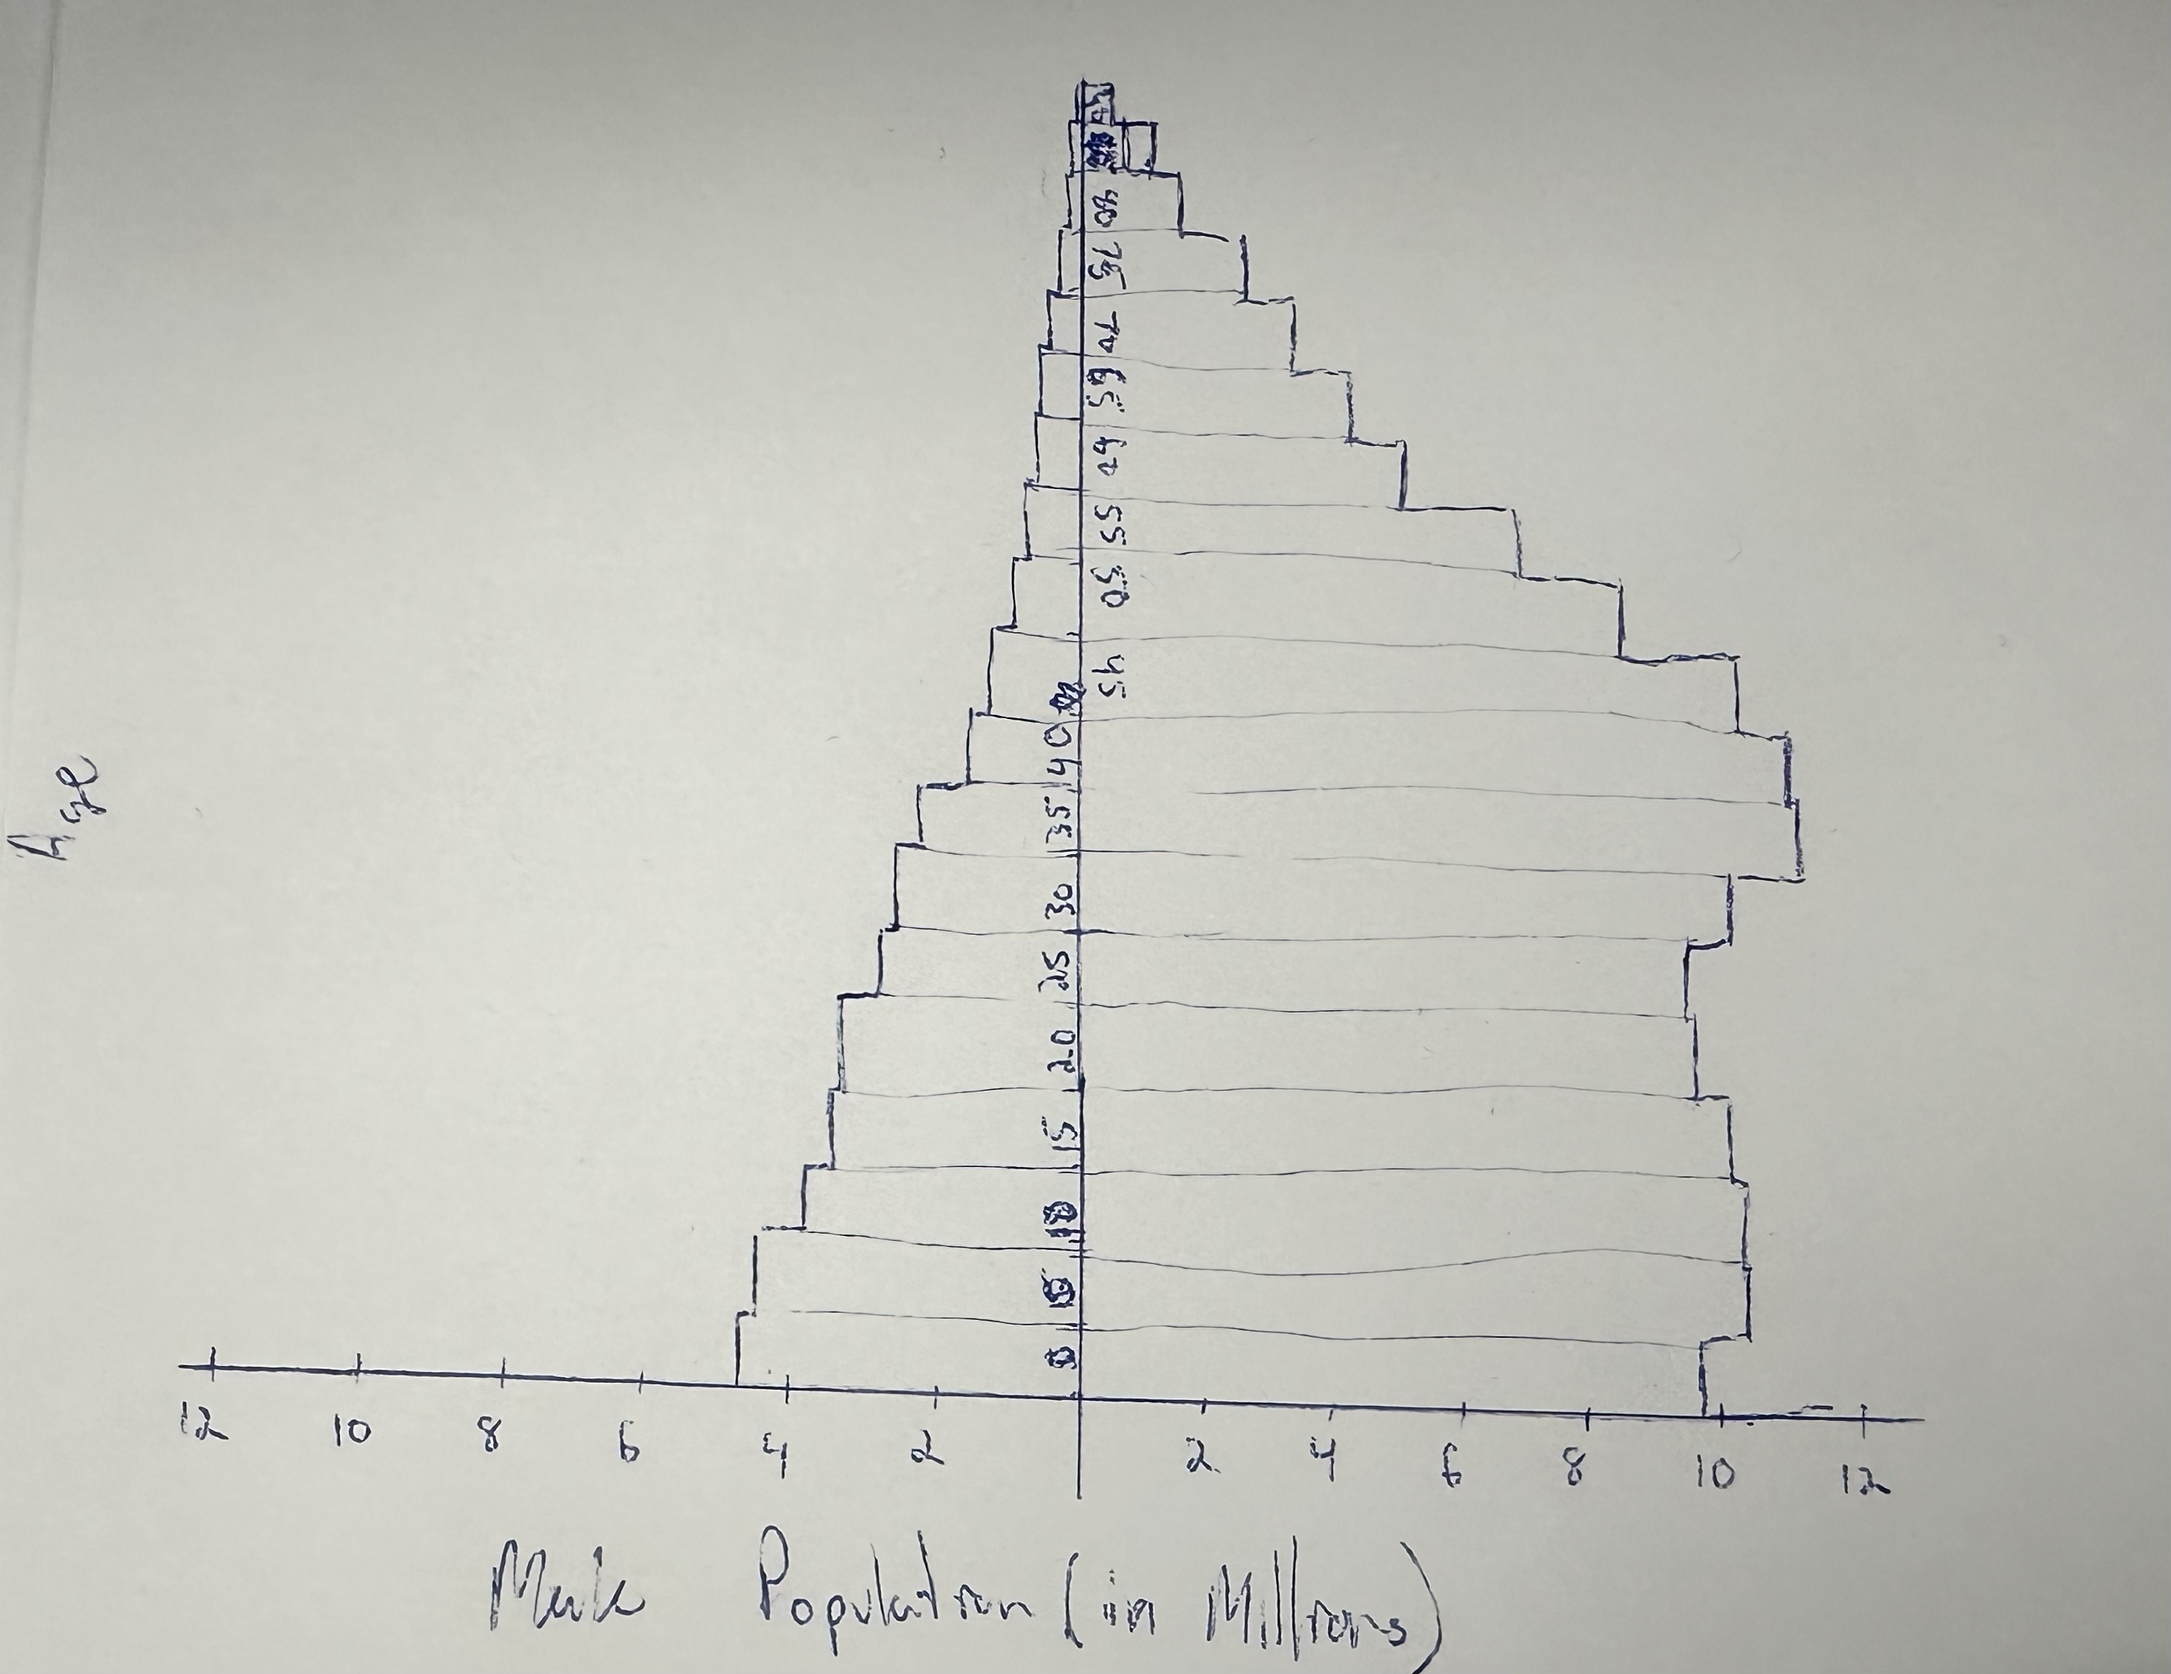
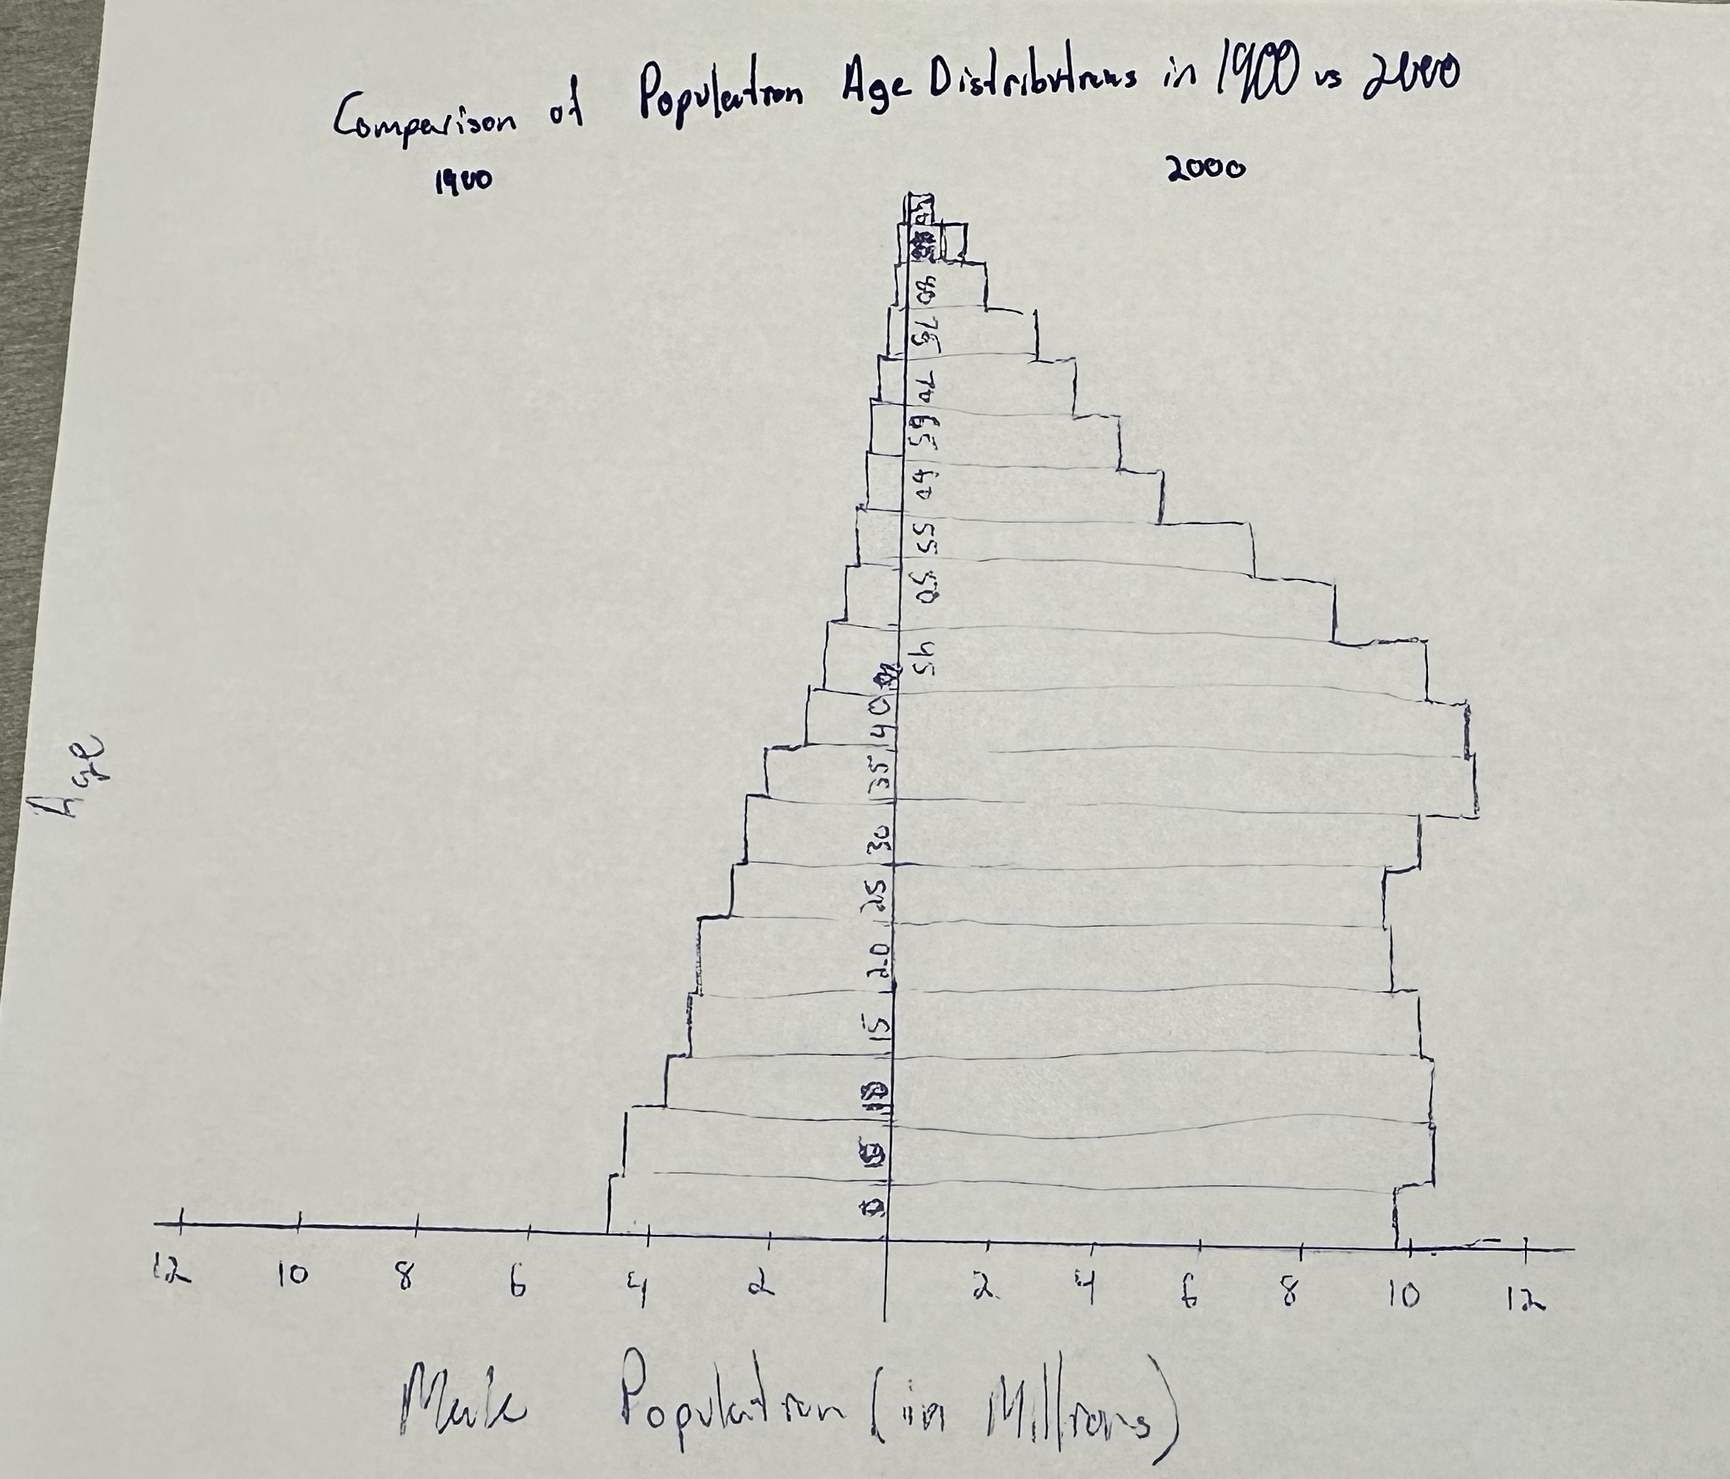
Checkpoint 2

diff --git a/index.html b/index.html
@@ -3,6 +3,12 @@
 <head>
 	<title>Vis & Society Assignment 3</title>
 	<link rel="stylesheet" href="https://vis-society.github.io/assignments/report.css" />
+	<style>
+		img {
+			max-width: 100%;
+			height: auto;
+		}
+	</style>
 </head>
 
 <body>
@@ -22,7 +28,7 @@
 			<h2>Phase One: Sketching Visualizations</h2>
 
       <figure>
-				<img src="sketch1.png" alt="" />
+				<img src="sketch2.png" alt="" />
 				<figcaption>
 					BRIEF CAPTION HERE.
 				</figcaption>
@@ -33,13 +39,13 @@
 			</p>
 
 			<ul>
-				<li>RATIONALE_1</li>
-				<li>RATIONALE_2</li>
-				<li>RATIONALE_3</li>
+				<li>At a high level, I was hoping this sketch would reveal age distribution changes via reversals of the dot's orderings; more specifically, how on the LHS (1900) the dots uniformly decrease from age 0 being the most populous, then age 5, and so on — and on the RHS (2000) the ordering would be different, revealing how some age groups outpaced others. Also, "crossings" that occur between lines between the two axes indicate distributional changes, so a graph with significant crossing essentially indicates a highly changed distribution.</li>
+				<li>Ultimately, the aforementioned design goals were achieved — there was significant crossing, showing that the age distributions changed. Unfortunately, however, gleaning much more detail beyond this is very difficult for several reasons. For one, the points have very similar populations and therefore cluster around small areas of the graph, making chaotic and it very difficult to read (to the point where I did not continue plotting the data as it just got more confusing). </li>
+				<li>Given these observations, my next sketch will aim to represent the desired differences in a more compact yet understandable manner.</li>
 			</ul>
 
       <figure>
-				<img src="sketch2.png" alt="" />
+				<img src="sketch1.png" alt="" />
 				<figcaption>
           BRIEF CAPTION HERE.
 				</figcaption>
@@ -50,9 +56,9 @@
 			</p>
 
 			<ul>
-				<li>RATIONALE_1</li>
-				<li>RATIONALE_2</li>
-				<li>RATIONALE_3</li>
+				<li>Iterating off of the last sketch, I again was hoping to reveal how the age distributions changed using a heatmap based on line density (rather than color, just to try something new out as suggested). This, at least initially, seemed to also be a more compact and simpler representation, as one just needs to look at the "heat" associated with a [Gender, Age] combination to see how it changed from 1900 to 2000.</li>
+				<li>I liked the heatmap aspect of the chart, as it immediately reveals that the older groups outpaced the rate at which they grew relative to the younger groups. Therefore, the simplicity of observations was achieved. However, I don't like the line-density approach to the heatmap more than color as it is significantly harder to glean exactly how much a group grew (you need to count the number of ticks in each box, which is a lot of work). It also oversimplifies the distribution, as we are not given information on how one [Gender, Age] combination compares to another, which is in my opinion valuable information regarding our overall question.</li>
+				<li>Given the observations, I want my next sketch to portray more detail of the distributions while still maintaining the immediate interpretability present in this visualization.</li>
 			</ul>
 
       <figure>
@@ -67,9 +73,9 @@
 			</p>
 
 			<ul>
-				<li>RATIONALE_1</li>
-				<li>RATIONALE_2</li>
-				<li>RATIONALE_3</li>
+				<li>For the final iteration of the sketching process, I'm hoping to strike a good balance between interpretability (better than the first) and detail (more than the second). As such, directly plotting the histograms and juxtaposing them by placing their bases together achieves this very well — at least intuitively, as I have no drawn the sketch yet.</li>
+				<li>Overall, this is my favorite sketch as the viewer can immediately glean differences between the two distributions, while also being presented with sufficient (though not overpowering / chaotic) detail that enables them to explore their own questions and comparisons.</li>
+				<li>One aspect that sticks out to me, however, is the lack of symmetry and aesthetics of this graph, which I plan to iterate on in phase 2. This is especially present when one also visualizes the distributions of the females as well. Namely, while the overall structure of the graph makes sense, I question whether juxtaposing the years in a single "male population" graph makes sense, or instead the years should be in two different graphs.</li>
 			</ul>
 
       <h3>Reflection</h3>
